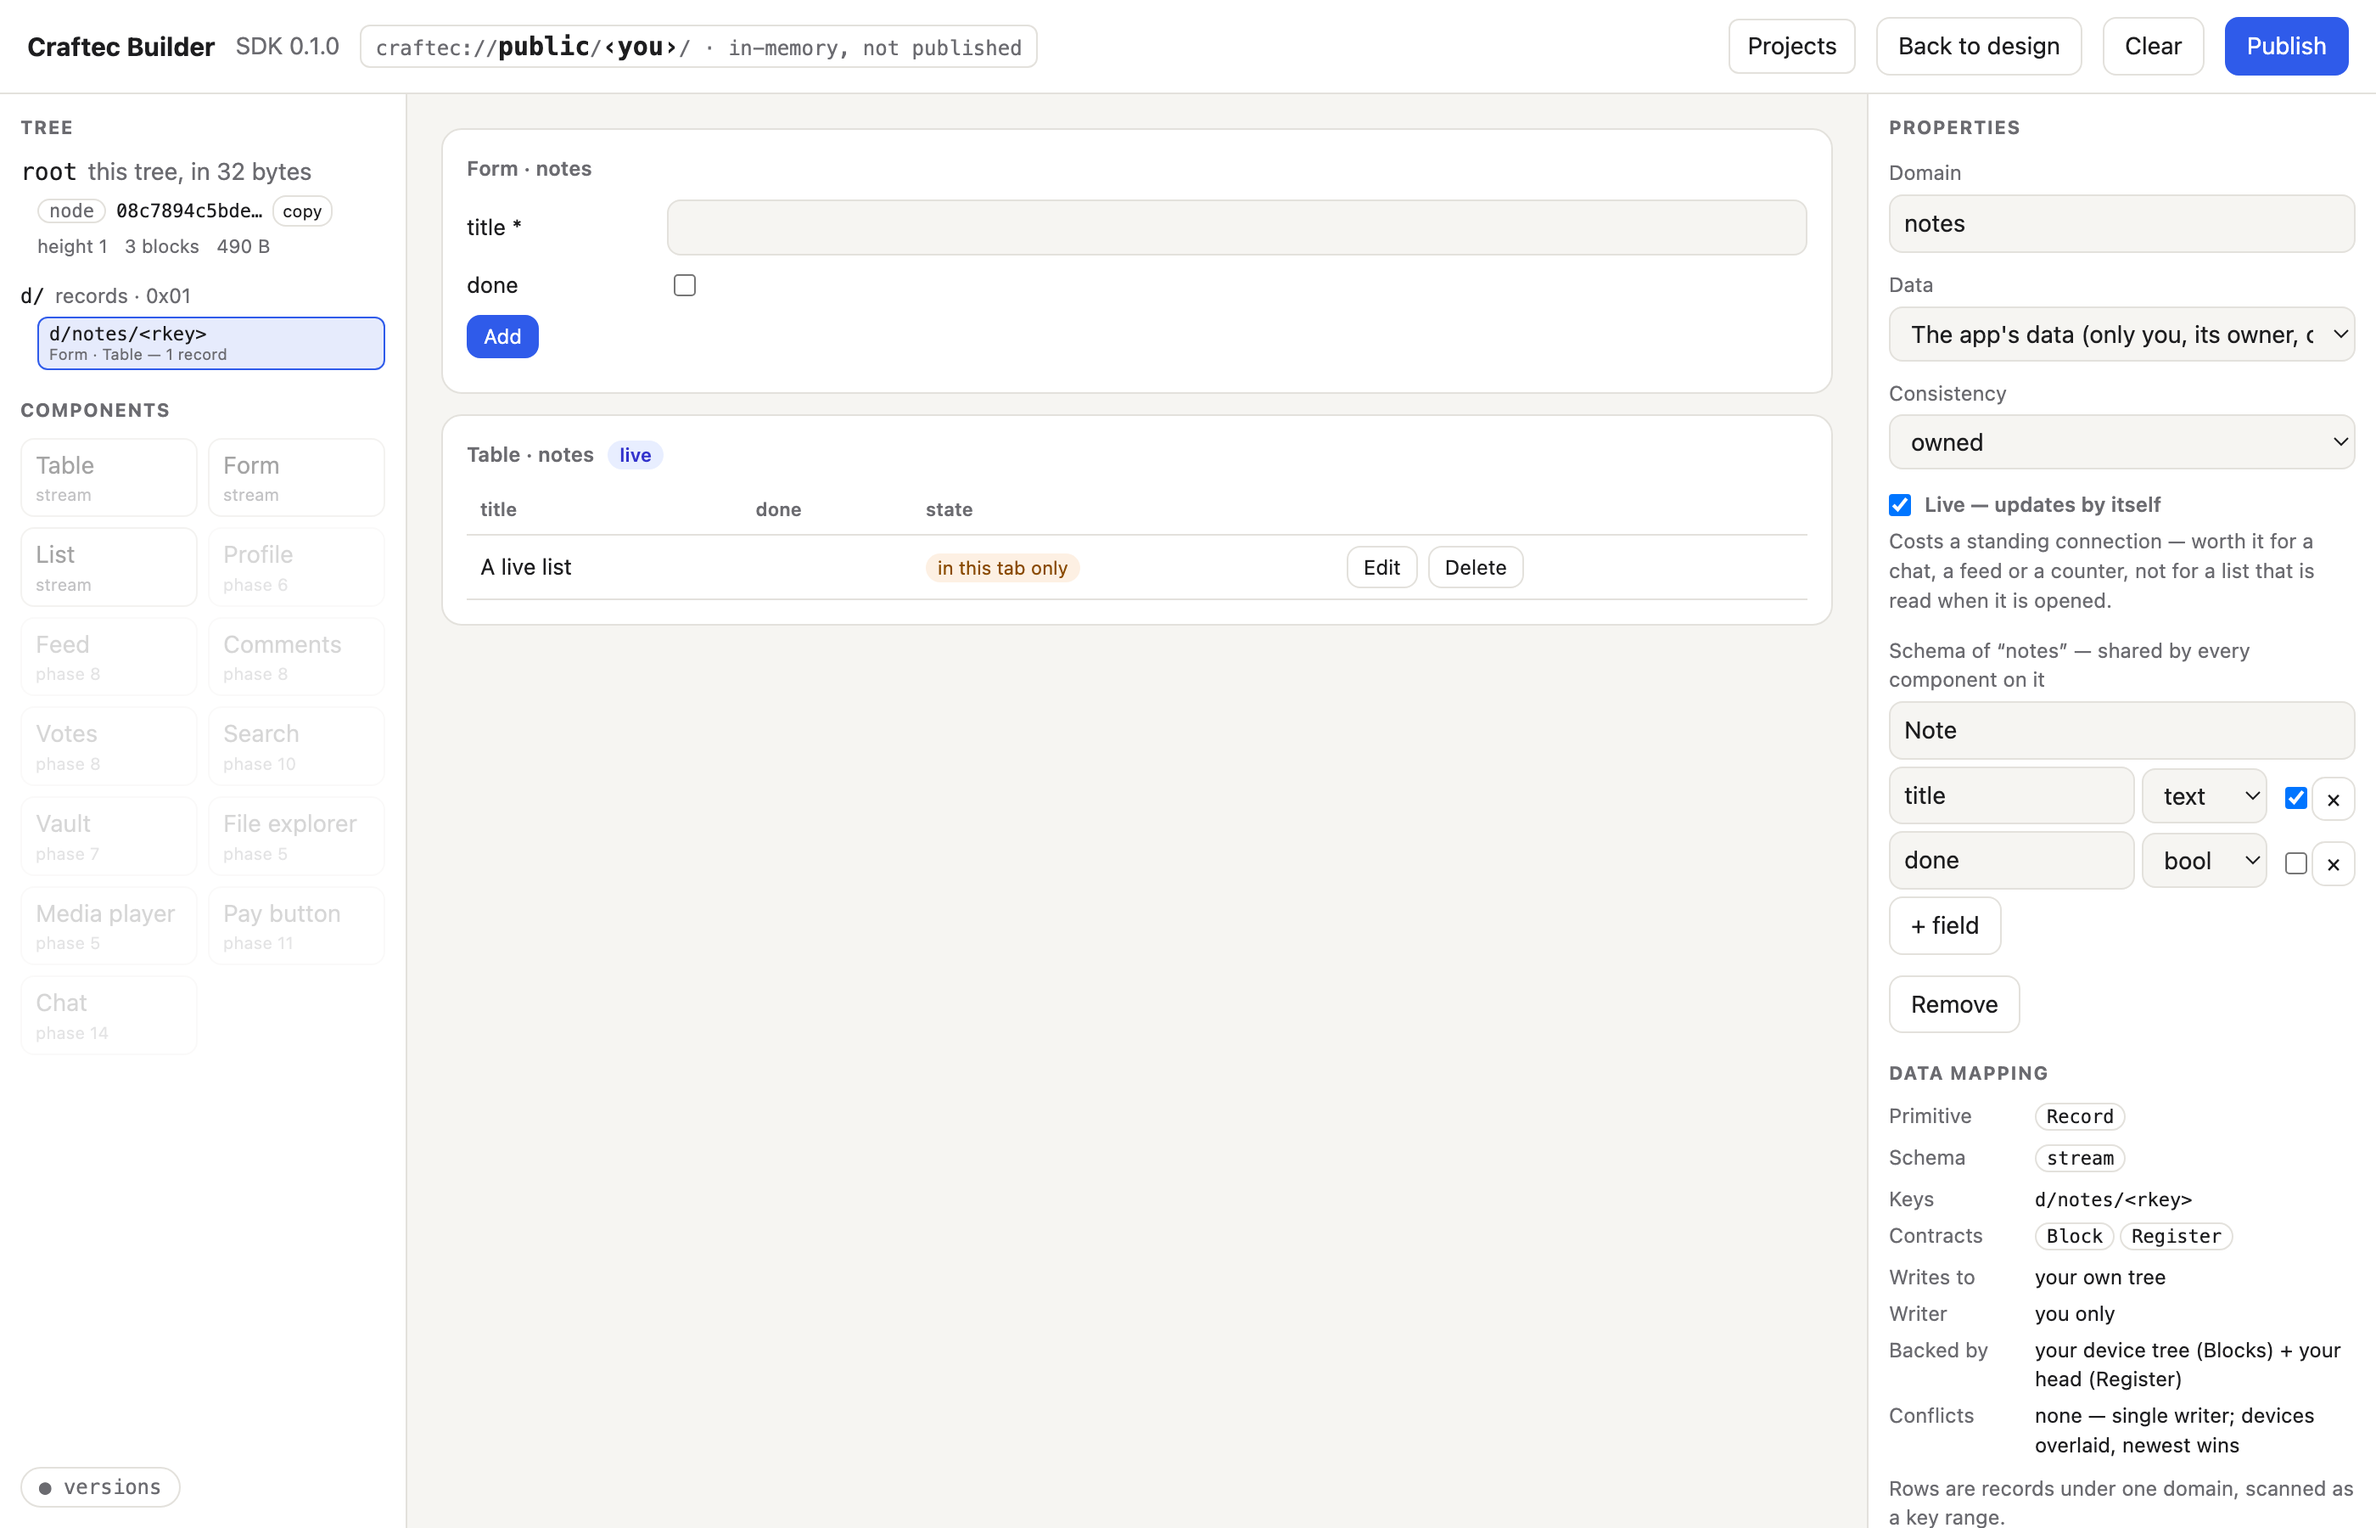
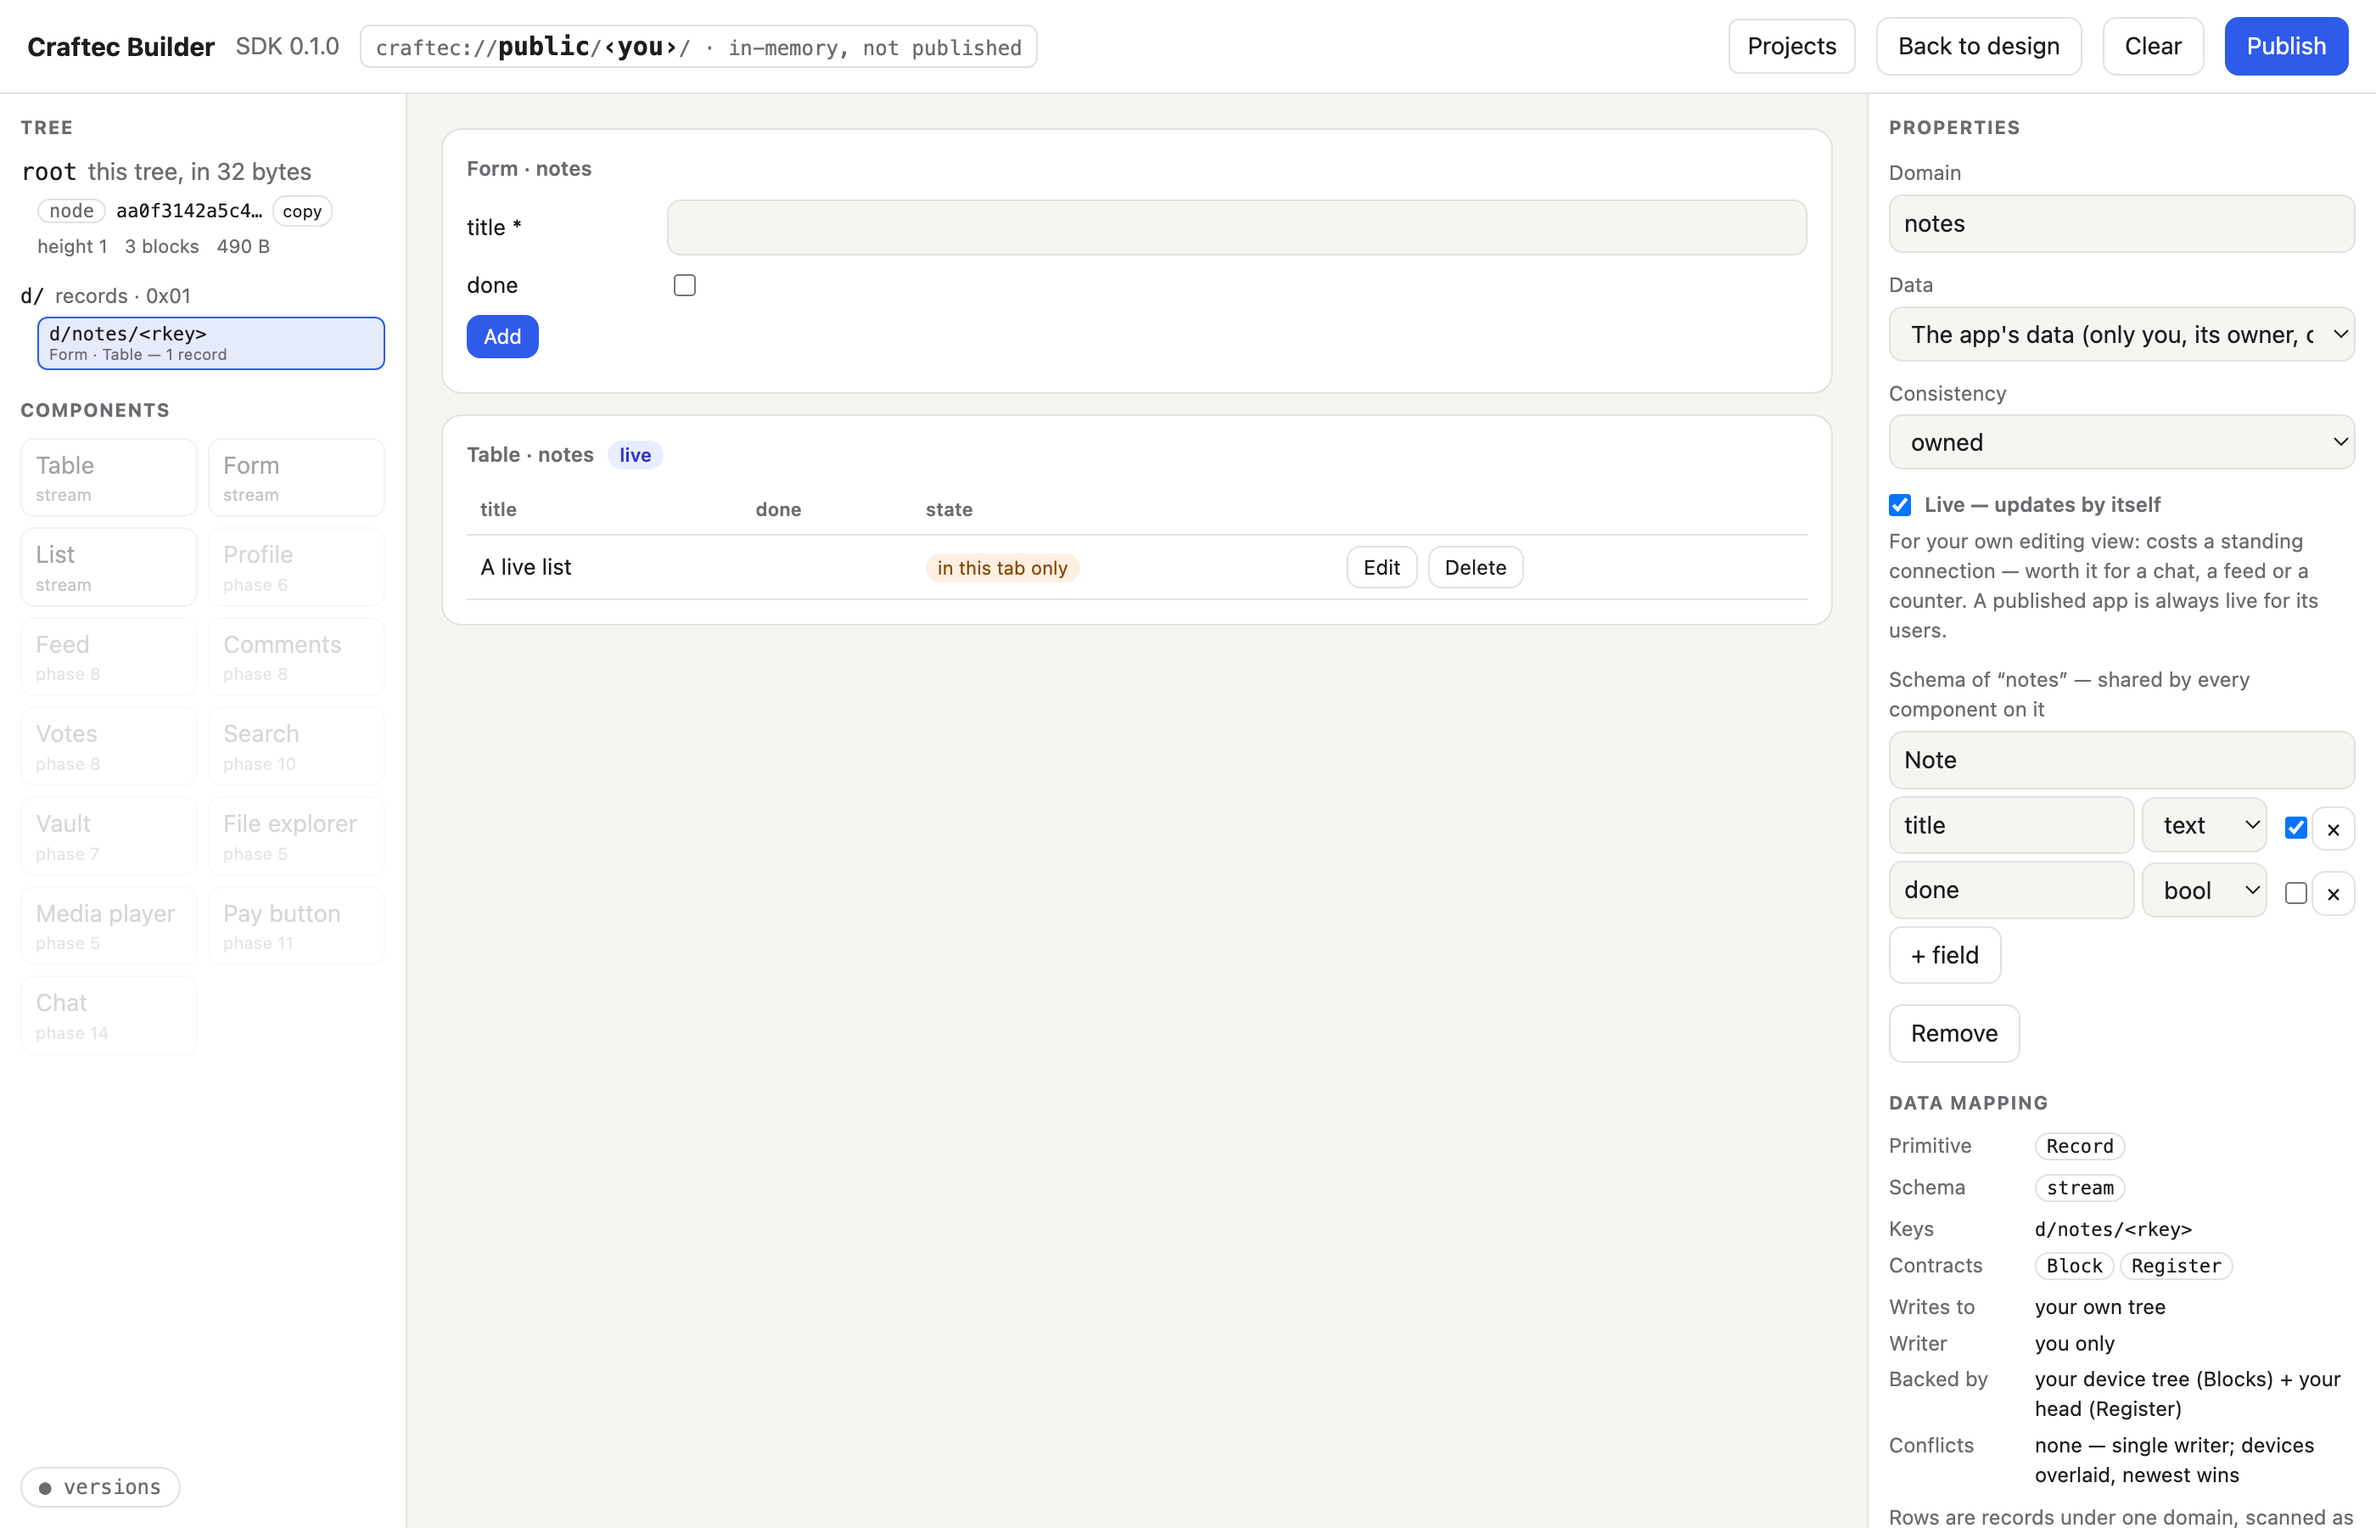
The LIVE note says whose switch it is: the author's own editing view; a published app is always live (owner's rule) (#144)
LIVE_NOTE, the one constant the properties panel shows beside the switch,
read as if a user's page followed it. It now says the switch is for the
author's own editing view and that a published app is always live for
its users (bindsLive), within the same 160-char line budget (144).

tests/publish-state.test.mjs asserts both. The old note (the mutant) is
red: "does not say the switch is for the author's own view". The three
screenshots that show the note are re-shot and were looked at.

diff --git a/publish-state.js b/publish-state.js
@@ -114,14 +114,16 @@ export const durable = state => state === "published" || state === "parity-compl
  * is how a panel teaches people to stop reading it. A screenshot showed that;
  * no assertion could have.
  *
- * What it has to carry: the cost (a standing connection), and the shape of
+ * What it has to carry: WHOSE switch it is (the author's, for their own
+ * editing view: a published app is always live for its users, the owner's
+ * rule, `bindsLive`), the cost (a standing connection), and the shape of
  * data worth spending it on (things that change while you are looking). What
  * it must not carry: the word subscription, or anything else a person would
  * have to already know.
  */
 export const LIVE_NOTE =
-  "Costs a standing connection — worth it for a chat, a feed or a counter, " +
-  "not for a list that is read when it is opened.";
+  "For your own editing view: costs a standing connection — worth it for a chat, " +
+  "a feed or a counter. A published app is always live for its users.";
 
 /**
  * Is this binding live? Default OFF, and absence is not liveness.
